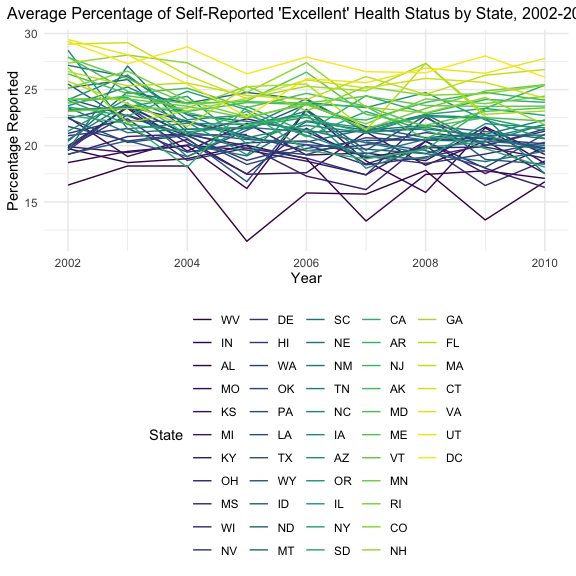
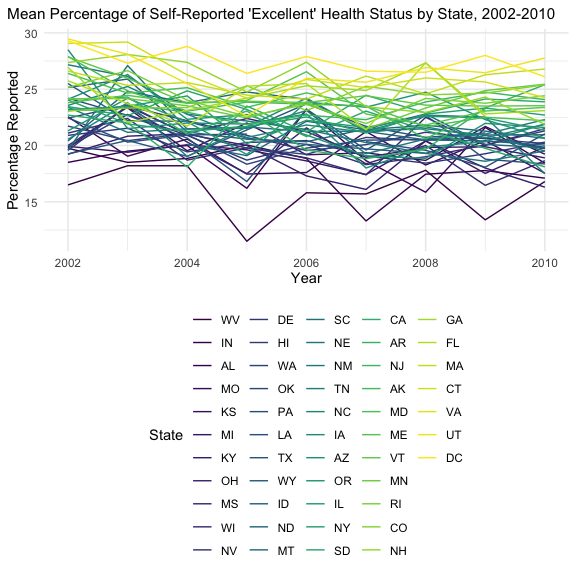
Fixing typos, aesthetic changes, updating responses for clarity, renamed the state variable in problem 2 for more clarity

diff --git a/p8105_hw3_cjd2195.md b/p8105_hw3_cjd2195.md
@@ -204,7 +204,7 @@ brfss_df = brfss_smart2010 |>
 tidy_brfss = 
   brfss_df |> 
   janitor::clean_names() |> 
-  rename(location_abbr = locationabbr,
+  rename(state = locationabbr,
          location_desc = locationdesc,
          ) |> 
   filter(topic == "Overall Health") |> 
@@ -218,10 +218,10 @@ In 2002, only 6 states had more than 7 locations polled. This compares
 to 14 states in 2010.
 
 To get these values, I filtered first to the year desired, then got the
-counts of all the occurrences of a given state `location_abbr`. Because,
-for this specific question, there will always be five observations for
-the same site (one corresponding to each of the potential responses), I
-need to account for this when filtering by counts; I adjust the desired
+counts of all the occurrences of a given `state`. Because, for this
+specific question, there will always be five observations for a single
+site (one corresponding to each of the potential responses), I need to
+account for this when filtering by counts; I adjust the desired
 threshold of 7 by multiplying by 5. Finally, I call `nrow()` to get the
 number of states that are pulled back by the above filter.
 
@@ -230,17 +230,17 @@ number of states that are pulled back by the above filter.
 ``` r
 tidy_brfss |> 
   filter(response == "Excellent") |> 
-  group_by(year, location_abbr) |> 
+  group_by(year, state) |> 
   summarize(n = n(), average_state_prevalence = mean(data_value)) |> 
-  ggplot(aes(x = year, y = average_state_prevalence, color = fct_reorder(location_abbr, average_state_prevalence))) +
+  ggplot(aes(x = year, y = average_state_prevalence, color = fct_reorder(state, average_state_prevalence))) +
   geom_line() + 
   labs(
-    title = "Average Percentage of Self-Reported 'Excellent' Health Status by State, 2002-2010",
+    title = "Mean Percentage of Self-Reported 'Excellent' Health Status by State, 2002-2010",
     x = "Year",
     y = "Percentage Reported",
     color = "State"
   ) + 
-  theme(plot.title = element_text(size = 12), plot.title.position = "plot")
+  theme(plot.title = element_text(size = 11.5), plot.title.position = "plot")
 ```
 
     ## `summarise()` has grouped output by 'year'. You can override using the
@@ -256,12 +256,12 @@ variables and got a plot that was overwhelming to look at; while the
 legend was in alphabetical order by state, trying to find an individual
 state by its own shade on the color palate is nearly impossible because
 the shades are so close to one another. Instead, I decided to refactor
-the variable corresponding to state (`location_abbr`) based on the value
-of the `average_state_prevalence`, which now organizes my color palate
-with respect to the percentage we’re interested in learning. It’s easier
-for me to see that DC is one of the yellow lines, and therefore one of
-the locations reporting the highest rates of “Excellent” health, and WV
-is one of the dark purple lines, and therefore has one of the lowest
+the variable corresponding to state (`state`) based on the value of the
+`average_state_prevalence`, which now organizes my color palate with
+respect to the percentage we’re interested in learning. It’s easier for
+me to see that DC is one of the yellow lines, and therefore one of the
+locations reporting the highest rates of “Excellent” health, and WV is
+one of the dark purple lines, and therefore has one of the lowest
 reported rates. In this case, the legend is almost more informative than
 the graph itself.
 
@@ -270,7 +270,7 @@ the graph itself.
 ``` r
 tidy_brfss |> 
   filter(year == 2006 | year == 2010) |> 
-  filter(location_abbr == "NY") |> 
+  filter(state == "NY") |> 
   group_by(year, response) |> 
   ggplot(aes(x = data_value, fill = response)) +
   geom_density(alpha = .5) +
@@ -289,7 +289,7 @@ tidy_brfss |>
 ``` r
 tidy_brfss |> 
   filter(year == 2006 | year == 2010) |> 
-  filter(location_abbr == "NY") |> 
+  filter(state == "NY") |> 
   group_by(year, response) |> 
   ggplot(aes(x = data_value, y = response)) +
   geom_density_ridges(aes(fill = response)) +
@@ -312,7 +312,7 @@ tidy_brfss |>
 ``` r
 tidy_brfss |> 
   filter(year == 2006 | year == 2010) |> 
-  filter(location_abbr == "NY") |> 
+  filter(state == "NY") |> 
   group_by(year, response) |> 
   ggplot(aes(x = response, y = data_value)) +
   geom_boxplot() +
@@ -331,7 +331,7 @@ tidy_brfss |>
 ``` r
 tidy_brfss |> 
   filter(year == 2006 | year == 2010) |> 
-  filter(location_abbr == "NY") |> 
+  filter(state == "NY") |> 
   group_by(year, response) |> 
   ggplot(aes(x = response, y = data_value)) + 
   geom_violin(aes())+
@@ -443,7 +443,8 @@ nhanes_combined |>
 | High school equivalent |   34 |     23 |
 | More than high school  |   54 |     59 |
 
-First up is summarizing the counts of participants by age and sex.
+First up is summarizing the counts of participants by highest education
+level and sex.
 
 ``` r
 nhanes_combined |> 
@@ -451,7 +452,7 @@ nhanes_combined |>
   ggplot(aes(x = education, y = age, color = sex)) + 
   geom_boxplot() +
   labs(
-    title = "NHANES Accelerometer Age Distrubtions by Sex and Education Level",
+    title = "NHANES Accelerometer Age Distributions by Sex and Education Level",
     x = "Highest Education Level",
     y = "Age",
     color = "Sex"
@@ -571,7 +572,7 @@ nhanes_combined |>
   geom_smooth(se = FALSE) + 
   facet_grid(~education) +
   labs(
-    title = "24-hour Activity Levels by Sex and Education Levels",
+    title = "24-hour Activity Levels by Sex and Education Level",
     x = "Time of Day (hh:mm:ss)",
     y = "Mean Activity Level (in MIMS)",
     color = "Sex"
@@ -584,6 +585,10 @@ nhanes_combined |>
     ## `geom_smooth()` using method = 'gam' and formula = 'y ~ s(x, bs = "cs")'
 
 <img src="p8105_hw3_cjd2195_files/figure-gfm/unnamed-chunk-14-1.png" width="90%" />
+
+\*\* quick note: I omitted the `geom_point` layer because even with
+adjusting the alpha level, I could not get a clean view of the trend
+line, which it seemed like was the most important thing to preserve.
 
 At a 10,000 foot glance, the overall trends of 24-hour activity levels
 are the same among educational groups and sexes: we see a nadir just
